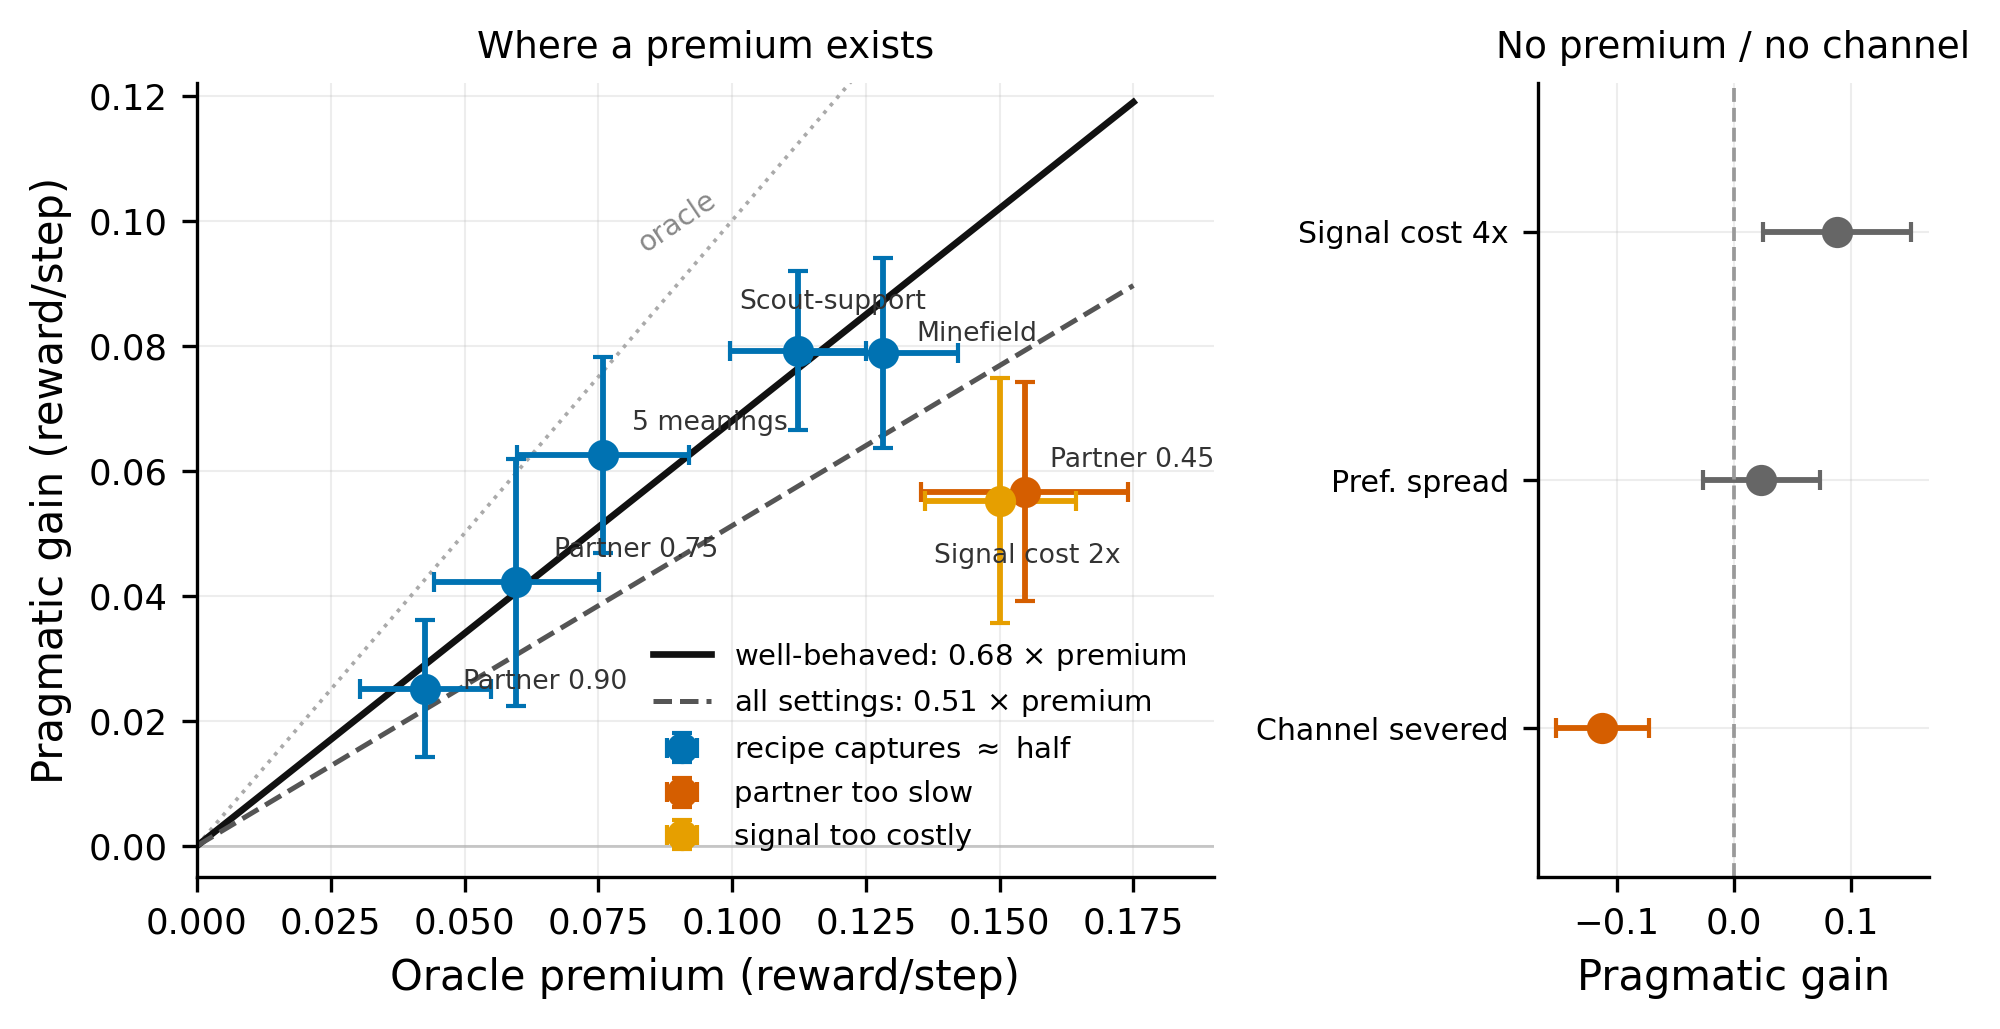
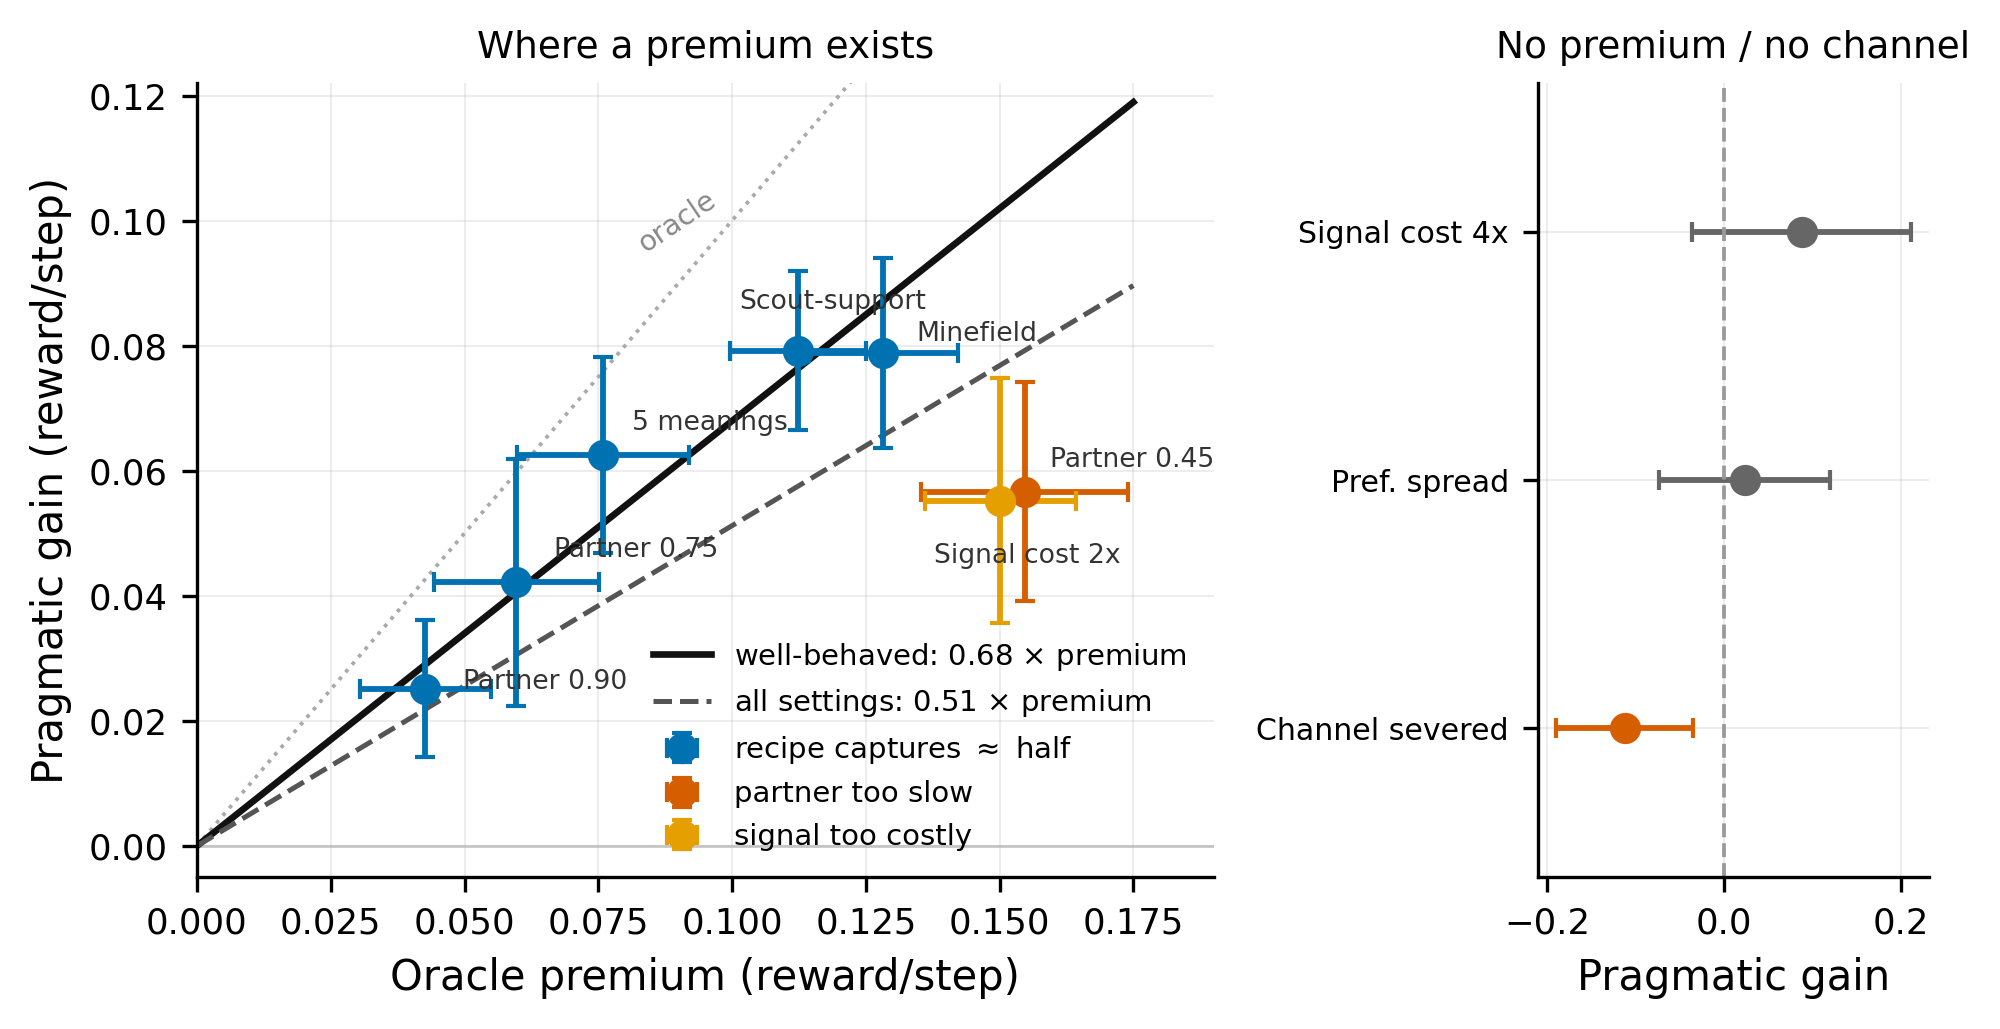
Round-2 review fixes: eval bug, stat labeling, stale entries, figures
- evaluate() omitted learned_act_ear from ear injection (train/eval
  asymmetry): fixed; re-evaluating trained policies gives baseline
  parity 0.841+/-0.023 (not the artifactual 0.551) -- bounded ear is
  redundant, disclosed in paper with the bug.
- expman report now gates on model.pt (in-flight runs polluted means).
- Prop 2 restated in high-probability form with clipped-reward tail
  bound + SAC/reparameterization scope note; filter listener corrected
  to bound I(M;history); recursion-loosening hedged.
- lambda=0.6 selection disclosed as swept (3 values), scale rationale
  demoted to gradient-carrying variation; 0.68 fit marked exploratory
  (post-hoc classification), 0.51 primary; resolvability defined.
- Stale entries fixed (exclusivity R_comm -1.65, Env B ddof sems);
  Tian AAAI20 / Kang NeurIPS20 / Knepper / Monroe-Potts positioned;
  trajectory fig annotated with commitment moments + selection
  disclosure; boundary right panel 95% CIs; forest regenerated at n=8.

diff --git a/experiments/render_scout.py b/experiments/render_scout.py
@@ -82,6 +82,23 @@ def main():
                                 lw=0.8, ls=(0, (2, 2)), alpha=0.55, zorder=2))
         draw_timed_path(ax, traj[:, 0], SCOUT_COLOR)
         draw_timed_path(ax, traj[:, 1], SUPPORT_COLOR)
+        # mark the supporter's commitment moment: first step from which its
+        # nearest site is the true target for the rest of the episode
+        sup = traj[:, 1]
+        d = np.linalg.norm(sup[:, None, :] - sites[None], axis=-1)
+        right = d.argmin(-1) == target
+        tc = len(right)
+        for i in range(len(right) - 1, -1, -1):
+            if right[i]:
+                tc = i
+            else:
+                break
+        if tc < len(right):
+            ax.plot(*sup[tc], marker="D", ms=7, color=SUPPORT_COLOR,
+                    mec="k", mew=0.8, zorder=6)
+            ax.annotate(f"commits $t{{=}}{tc}$", sup[tc], fontsize=7.0,
+                        xytext=(6, -11), textcoords="offset points",
+                        color="#222222", zorder=6)
         ax.set_title(label)
         ax.set_xlim(-1.58, 1.58); ax.set_ylim(-1.58, 1.58)
         ax.set_aspect("equal"); ax.set_xticks([]); ax.set_yticks([])

diff --git a/experiments/expman.py b/experiments/expman.py
@@ -76,6 +76,9 @@ def status(args):
 def _agg(outroot, cond, key):
     vals = []
     for p in sorted(glob.glob(os.path.join(outroot, f"{cond}_s*", "history.json"))):
+        # only completed runs: an in-flight run has history.json but no model.pt
+        if not os.path.exists(os.path.join(os.path.dirname(p), "model.pt")):
+            continue
         h = json.load(open(p))["history"][-3:]
         vals.append(np.mean([e[key] for e in h]))
     return np.array(vals)
@@ -85,7 +88,7 @@ def report(args):
     conds = defaultdict(int)
     for d in glob.glob(os.path.join(args.outroot, "*_s*")):
         name = os.path.basename(d)
-        if os.path.exists(os.path.join(d, "history.json")):
+        if os.path.exists(os.path.join(d, "model.pt")):
             conds[name.rsplit("_s", 1)[0]] += 1
     base = _agg(args.outroot, args.baseline, "r_ext") if args.baseline else None
     orac = _agg(args.outroot, args.oracle, "r_ext") if args.oracle else None

diff --git a/experiments/boundary_map.py b/experiments/boundary_map.py
@@ -166,7 +166,9 @@ def main():
                      math.sqrt(sem(blind_p) ** 2 + sem(blind_b) ** 2), "#D55E00"))
     ys = np.arange(len(cats))[::-1]
     for y, (lab, g, e, c) in zip(ys, cats):
-        ax2.errorbar(g, y, xerr=e, fmt="o", ms=6.5, color=c, capsize=2.5, lw=1.4)
+        # 95% CI so "n.s." claims in the text match what the panel shows
+        ax2.errorbar(g, y, xerr=1.96 * e, fmt="o", ms=6.5, color=c,
+                     capsize=2.5, lw=1.4)
     ax2.axvline(0, color="#999999", lw=0.9, ls="--")
     ax2.set_yticks(ys)
     ax2.set_yticklabels([c[0] for c in cats], fontsize=7.2)

diff --git a/experiments/info_profile.py b/experiments/info_profile.py
@@ -23,7 +23,7 @@ from train_masac import Actor
 from train_scout import inject_ear
 from paperstyle import use_style, LABELS, COLORS, REF_STYLE
 
-ORDER = ["baseline", "oracle", "filter", "learned", "learned_ear"]
+ORDER = ["baseline", "oracle", "progress", "filter", "learned", "learned_ear"]
 
 
 def collect(actor, listener, ear, n_envs, seed, deterministic):

diff --git a/experiments/train_scout.py b/experiments/train_scout.py
@@ -43,7 +43,7 @@ def evaluate(actor, cond, listener, seed, n_envs=64, device=torch.device("cpu"),
              blind=False):
     env = S.ScoutSupportEnv(n_envs, oracle=(cond == "oracle"), seed=seed, blind=blind)
     obs = env.reset()
-    ear = cond in ("ear", "learned_ear", "filter_ear")
+    ear = cond in ("ear", "learned_ear", "filter_ear", "learned_act_ear")
     if ear:
         obs = inject_ear(obs, torch.full((n_envs, S.N_MEANINGS), 1 / 3))
     gen = torch.Generator().manual_seed(seed)